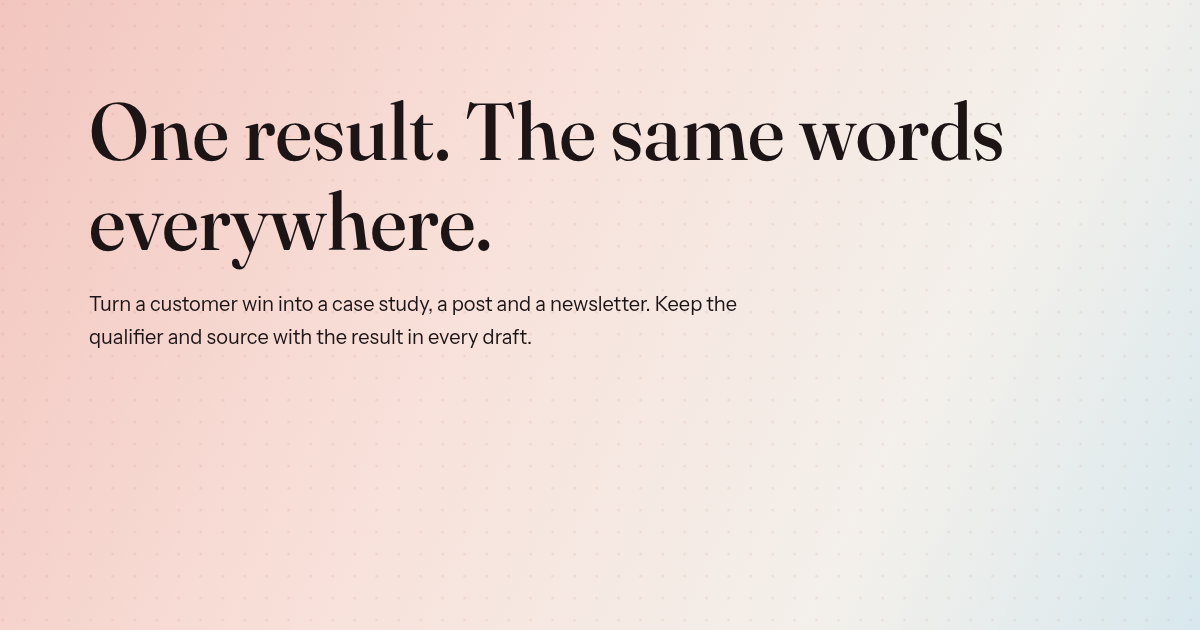
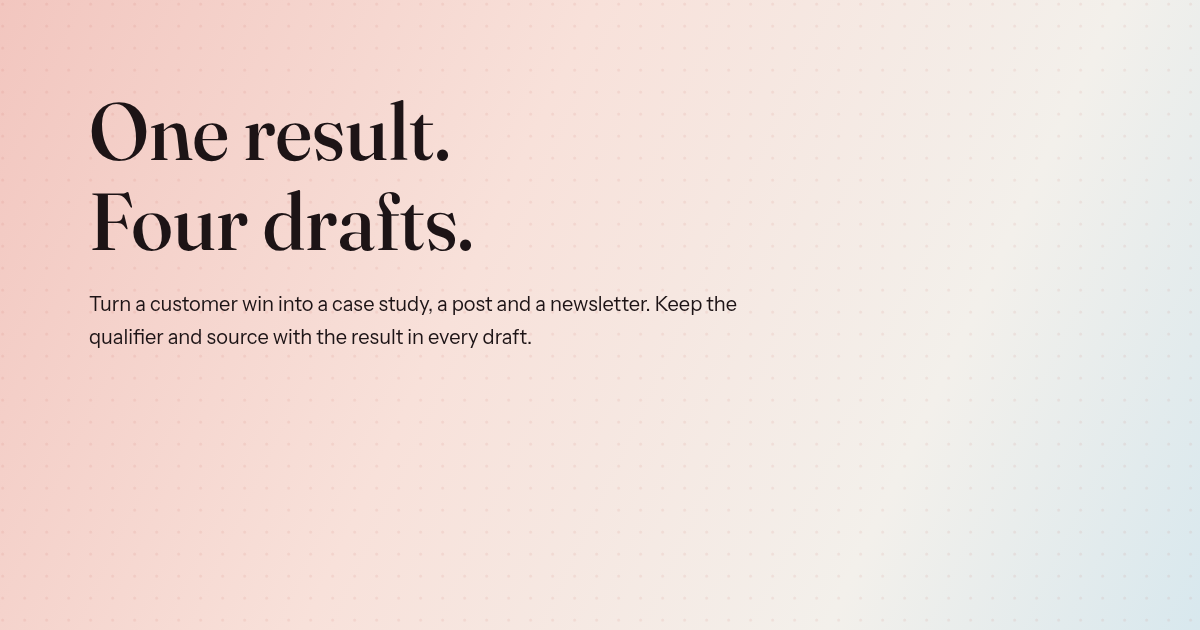
Complete shared next-tool discovery and customer result page assets

Changed region(s): [[0.37, 0.1508, 0.8325, 0.2714], [0.0617, 0.3016, 0.4008, 0.4222]]

diff --git a/public/tools/customer-result-to-content/index.html b/public/tools/customer-result-to-content/index.html
@@ -1,1 +1,1 @@
-<!doctype html><html lang="en"><head><meta charset="utf-8"><meta name="viewport" content="width=device-width,initial-scale=1"><title>Turn this customer result into content | CRAFT Content</title><meta name="description" content="Lock one customer result sentence, draft four assets and check every draft against the proof card. Use it in chat, with approval held first."><meta name="robots" content="index, follow, max-image-preview:large"><link rel="canonical" href="https://craft-content.gtmhelix.com/tools/customer-result-to-content/"><meta property="og:type" content="website"><meta property="og:title" content="Turn this customer result into content"><meta property="og:description" content="Lock one customer result sentence, draft four assets and check every draft against the proof card. Use it in chat, with approval held first."><meta property="og:url" content="https://craft-content.gtmhelix.com/tools/customer-result-to-content/"><meta property="og:image" content="https://craft-content.gtmhelix.com/tools/customer-result-to-content/share.png"><meta property="og:image:width" content="1200"><meta property="og:image:height" content="630"><meta name="twitter:card" content="summary_large_image"><meta name="twitter:image" content="https://craft-content.gtmhelix.com/tools/customer-result-to-content/share.png"><link rel="icon" href="/favicon.svg"><link rel="stylesheet" href="/assets/chain-tools.css"><script type="application/ld+json">{"@context": "https://schema.org", "@type": "WebApplication", "name": "Turn this customer result into content", "url": "https://craft-content.gtmhelix.com/tools/customer-result-to-content/", "description": "Lock one customer result sentence, draft four assets and check every draft against the proof card. Use it in chat, with approval held first.", "applicationCategory": "BusinessApplication", "operatingSystem": "Any", "isAccessibleForFree": true, "offers": {"@type": "Offer", "price": "0", "priceCurrency": "USD"}, "author": {"@type": "Person", "name": "Shashwat Ghosh", "url": "https://gtmhelix.com/about/"}}</script></head><body><a class="skip" href="#main">Skip to content</a><header class="top"><nav class="wrap nav" aria-label="Helix GTM Consulting"><a class="logo" href="https://gtmhelix.com/"><span class="mark" aria-hidden="true">h</span>Helix GTM</a><div class="links"><a href="/#tools">All tools</a><a href="https://gtmhelix.com/guides/">Guides</a><a href="/connect/">Connect</a></div><a class="button" href="https://gtmhelix.com/lets-get-started/">Work with Shashwat</a></nav></header><main id="main"><section class="hero"><div class="wrap"><p class="caption"><a href="/">CRAFT Content</a> / Your customer result</p><div class="hero-grid"><div><p class="eyebrow">For founders, content leads and outside writers</p><h1>One result.<br>Four checked drafts.</h1><p class="lead">Turn a customer win into a case study, a post and a newsletter. Keep the qualifier and source with the result in every draft.</p><p><a class="button" href="/connect/">Use this tool in chat</a></p><p class="caption">Free first drafts. No sign in. Your chat asks for the facts.</p></div><aside class="card" aria-label="The result you get"><h2>A proof card comes first</h2><ol class="flow"><li>The exact sentence and its source</li><li>Approval and the questions still open</li><li>Four drafts, with a pass or fail for each</li></ol><p class="caption">A published story stays as it is. The tool drafts the post and newsletter around it.</p></aside></div></div></section><section class="band"><div class="wrap"><h2>Give the chat your result</h2><div class="cards"><article class="card"><h3>Keep its limits</h3><p>Paste the whole sentence, with the qualifier and source label. Add the source link and publication date. Do not borrow a measurement period from a different figure.</p></article><article class="card"><h3>Confirm the permission</h3><p>For your own customer, record who gave written approval, which uses it covers and when to review it. Without that approval, you get the card and gap questions only.</p></article><article class="card"><h3>Write your own view</h3><p>Add the sentences only you can write, then one reader action. The tool keeps your words and tells you if the repurposer dropped them.</p></article></div></div></section><section class="band sand"><div class="wrap"><h2>Ask in your own words</h2><div class="card"><p>“Turn this customer win into a case study, a post and a newsletter without changing the number.”</p><p>The chat asks one question at a time. It sends the completed brief to the tool. The server returns the same result for the same inputs.</p><p><a class="button" href="/connect/">Connect CRAFT Content</a> <a href="https://gtmhelix.com/guides/09-founder-led-linkedin-thought-leadership-case-studies-craft-content/">Read the worked guide</a></p></div></div></section><section class="band"><div class="wrap"><h2>See every handoff</h2><ol class="flow"><li>The proof card locks the whole sentence.</li><li>Case Study Generator drafts an unpublished story.</li><li>Content Repurposer receives the story and your view.</li><li>Newsletter Builder receives the locked line and reader action.</li><li>The server checks the final drafts against the card.</li></ol><details><summary>Does a pass mean the story is ready to publish?</summary><p>A pass means the whole locked sentence survived. Read every factual sentence against the card, cut stock text and get the required approval before publishing. The check does not establish meaning or independent verification.</p></details><details><summary>What if a fact is missing?</summary><p>The card says “not stated” and gives you a question to take back to the customer. No measurement is invented.</p></details><details><summary>What happens after the drafts?</summary><p>Ask chat to run the Handcrafted voice audit on the post if that skill is installed. For a second pair of eyes on proof or approval, <a href="https://calendly.com/shashwat-gtmhelix/45min">book 45 minutes</a>.</p></details></div></section></main><footer><div class="wrap"><p>Built by Shashwat Ghosh, Helix GTM Consulting.</p><p><a href="/#tools">All CRAFT Content tools</a> · <a href="/privacy/">Privacy</a> · <a href="/terms/">Terms</a></p></div></footer></body></html>
+<!doctype html><html lang="en"><head><meta charset="utf-8"><meta name="viewport" content="width=device-width,initial-scale=1"><title>Turn this customer result into content | CRAFT Content</title><meta name="description" content="Lock one customer result sentence, draft four assets and check every draft against the proof card. Use it in chat, with approval held first."><meta name="robots" content="index, follow, max-image-preview:large"><link rel="canonical" href="https://craft-content.gtmhelix.com/tools/customer-result-to-content/"><meta property="og:type" content="website"><meta property="og:title" content="Turn this customer result into content"><meta property="og:description" content="Lock one customer result sentence, draft four assets and check every draft against the proof card. Use it in chat, with approval held first."><meta property="og:url" content="https://craft-content.gtmhelix.com/tools/customer-result-to-content/"><meta property="og:image" content="https://craft-content.gtmhelix.com/tools/customer-result-to-content/share.png"><meta property="og:image:width" content="1200"><meta property="og:image:height" content="630"><meta name="twitter:card" content="summary_large_image"><meta name="twitter:image" content="https://craft-content.gtmhelix.com/tools/customer-result-to-content/share.png"><link rel="icon" href="/favicon.svg"><link rel="stylesheet" href="/assets/chain-tools.css"><script type="application/ld+json">{"@context": "https://schema.org", "@type": "WebApplication", "name": "Turn this customer result into content", "url": "https://craft-content.gtmhelix.com/tools/customer-result-to-content/", "description": "Lock one customer result sentence, draft four assets and check every draft against the proof card. Use it in chat, with approval held first.", "applicationCategory": "BusinessApplication", "operatingSystem": "Any", "isAccessibleForFree": true, "offers": {"@type": "Offer", "price": "0", "priceCurrency": "USD"}, "author": {"@type": "Person", "name": "Shashwat Ghosh", "url": "https://gtmhelix.com/about/"}}</script></head><body><a class="skip" href="#main">Skip to content</a><header class="top"><nav class="wrap nav" aria-label="Helix GTM Consulting"><a class="logo" href="https://gtmhelix.com/"><span class="mark" aria-hidden="true">h</span>Helix GTM</a><div class="links"><a href="/#tools">All tools</a><a href="https://gtmhelix.com/guides/">Guides</a><a href="/connect/">Connect</a></div><a class="button" href="https://gtmhelix.com/lets-get-started/">Work with Shashwat</a></nav></header><main id="main"><section class="hero"><div class="wrap"><p class="caption"><a href="/">CRAFT Content</a> / Your customer result</p><div class="hero-grid"><div><p class="eyebrow">For founders, content leads and outside writers</p><h1>One result.<br>Four drafts.</h1><p class="lead">Turn a customer win into a case study, a post and a newsletter. Keep the qualifier and source with the result in every draft.</p><p><a class="button" href="/connect/">Use this tool in chat</a></p><p class="caption">Free first drafts. No sign in. Your chat asks for the facts.</p></div><aside class="card" aria-label="The result you get"><h2>A proof card comes first</h2><ol class="flow"><li>The exact sentence and its source</li><li>Approval and the questions still open</li><li>Four drafts, with a pass or fail for each</li></ol><p class="caption">A published story stays as it is. The tool drafts the post and newsletter around it.</p></aside></div></div></section><section class="band"><div class="wrap"><h2>Give the chat your result</h2><div class="cards"><article class="card"><h3>Keep its limits</h3><p>Paste the whole sentence, with the qualifier and source label. Add the source link and publication date. Do not borrow a measurement period from a different figure.</p></article><article class="card"><h3>Confirm the permission</h3><p>For your own customer, record who gave written approval, which uses it covers and when to review it. Without that approval, you get the card and gap questions only.</p></article><article class="card"><h3>Write your own view</h3><p>Add the sentences only you can write, then one reader action. The tool keeps your words and tells you if the repurposer dropped them.</p></article></div></div></section><section class="band sand"><div class="wrap"><h2>Ask in your own words</h2><div class="card"><p>“Turn this customer win into a case study, a post and a newsletter without changing the number.”</p><p>The chat asks one question at a time. It sends the completed brief to the tool. The server returns the same result for the same inputs.</p><p><a class="button" href="/connect/">Connect CRAFT Content</a> <a href="https://gtmhelix.com/guides/09-founder-led-linkedin-thought-leadership-case-studies-craft-content/">Read the worked guide</a></p></div></div></section><section class="band"><div class="wrap"><h2>See every handoff</h2><ol class="flow"><li>The proof card locks the whole sentence.</li><li>Case Study Generator drafts an unpublished story.</li><li>Content Repurposer receives the story and your view.</li><li>Newsletter Builder receives the locked line and reader action.</li><li>The server checks the final drafts against the card.</li></ol><details><summary>Does a pass mean the story is ready to publish?</summary><p>A pass means the whole locked sentence survived. Read every factual sentence against the card, cut stock text and get the required approval before publishing. The check does not establish meaning or independent verification.</p></details><details><summary>What if a fact is missing?</summary><p>The card says “not stated” and gives you a question to take back to the customer. No measurement is invented.</p></details><details><summary>What happens after the drafts?</summary><p>Ask chat to run the Handcrafted voice audit on the post if that skill is installed. For a second pair of eyes on proof or approval, <a href="https://calendly.com/shashwat-gtmhelix/45min">book 45 minutes</a>.</p></details></div></section></main><footer><div class="wrap"><p>Built by Shashwat Ghosh, Helix GTM Consulting.</p><p><a href="/#tools">All CRAFT Content tools</a> · <a href="/privacy/">Privacy</a> · <a href="/terms/">Terms</a></p></div></footer></body></html>
